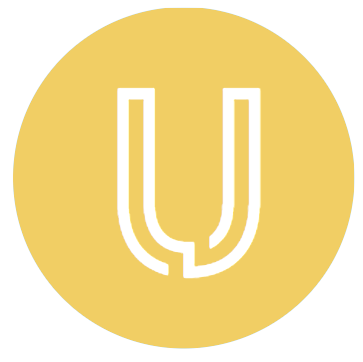
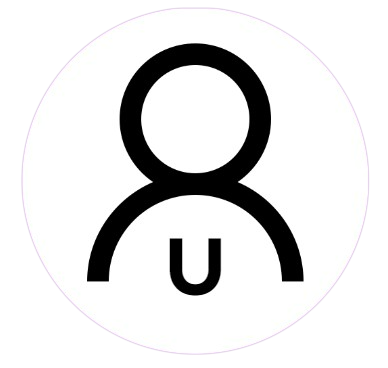
기본 이미지 수정

diff --git a/src/main/resources/templates/board/free/list.html b/src/main/resources/templates/board/free/list.html
@@ -36,7 +36,10 @@
                         <!-- 로그인이 안되 잇을 경우 display:none-->
                         <button  type="button" class="login-button">
                             <div class="profile-image-login">
-                                <img src="../../../static/image/boardList/distributor_icon.png">
+                                <div class="profile-member-status">
+                                    <!-- <span class="profile-image">유</span> -->
+                                    <span class="profile-image">자</span>
+                                </div> 
                             </div>
                             <div class="profile-username-wrap">
                                 <div class="profile-user-info-box">
@@ -44,6 +47,9 @@
                                     <div style="display: flex;">
                                         <div class="profile-userType">유통업자</div>
                                     </div>
+                                    <!-- <div style="display: flex;">
+                                        <div class="profile-userType">이용자</div>
+                                    </div> -->
                                 </div>
                             </div>
                             <span class="profile-arrow">
@@ -68,43 +74,13 @@
                         <div class="ranking-list-box">
                             <a href="#" class="distributor-box">
                                 <div class="distributor-image-box">
-                                    <img src="../../../static/image/boardList/distributor_icon.png">
-                                </div>
-                                <div class="distributor-name">유통업체 이름</div>
-                                <svg width="6" height="13" viewBox="0 0 6 13" fill="#888888" class="arrow-left">
-                                    <path d="M0.34467 10.4697C0.0517767 10.7626 0.0517767 11.2374 0.34467 11.5303C0.637563 11.8232 1.11244 11.8232 1.40533 11.5303L5.65533 7.28033C5.94822 6.98744 5.94822 6.51256 5.65533 6.21967L1.40533 1.96967C1.11244 1.67678 0.637563 1.67678 0.34467 1.96967C0.0517767 2.26256 0.0517767 2.73744 0.34467 3.03033L4.06434 6.75L0.34467 10.4697Z"></path>
-                                </svg>
-                            </a>
-                            <a href="#" class="distributor-box">
-                                <div class="distributor-image-box">
-                                    <img src="../../../static/image/boardList/distributor_icon.png">
-                                </div>
-                                <div class="distributor-name">유통업체 이름</div>
-                                <svg width="6" height="13" viewBox="0 0 6 13" fill="#888888" class="arrow-left">
-                                    <path d="M0.34467 10.4697C0.0517767 10.7626 0.0517767 11.2374 0.34467 11.5303C0.637563 11.8232 1.11244 11.8232 1.40533 11.5303L5.65533 7.28033C5.94822 6.98744 5.94822 6.51256 5.65533 6.21967L1.40533 1.96967C1.11244 1.67678 0.637563 1.67678 0.34467 1.96967C0.0517767 2.26256 0.0517767 2.73744 0.34467 3.03033L4.06434 6.75L0.34467 10.4697Z"></path>
-                                </svg>
-                            </a>
-                            <a href="#" class="distributor-box">
-                                <div class="distributor-image-box">
-                                    <img src="../../../static/image/boardList/distributor_icon.png">
-                                </div>
-                                <div class="distributor-name">유통업체 이름</div>
-                                <svg width="6" height="13" viewBox="0 0 6 13" fill="#888888" class="arrow-left">
-                                    <path d="M0.34467 10.4697C0.0517767 10.7626 0.0517767 11.2374 0.34467 11.5303C0.637563 11.8232 1.11244 11.8232 1.40533 11.5303L5.65533 7.28033C5.94822 6.98744 5.94822 6.51256 5.65533 6.21967L1.40533 1.96967C1.11244 1.67678 0.637563 1.67678 0.34467 1.96967C0.0517767 2.26256 0.0517767 2.73744 0.34467 3.03033L4.06434 6.75L0.34467 10.4697Z"></path>
-                                </svg>
-                            </a>
-                            <a href="#" class="distributor-box">
-                                <div class="distributor-image-box">
-                                    <img src="../../../static/image/boardList/distributor_icon.png">
-                                </div>
-                                <div class="distributor-name">유통업체 이름</div>
-                                <svg width="6" height="13" viewBox="0 0 6 13" fill="#888888" class="arrow-left">
-                                    <path d="M0.34467 10.4697C0.0517767 10.7626 0.0517767 11.2374 0.34467 11.5303C0.637563 11.8232 1.11244 11.8232 1.40533 11.5303L5.65533 7.28033C5.94822 6.98744 5.94822 6.51256 5.65533 6.21967L1.40533 1.96967C1.11244 1.67678 0.637563 1.67678 0.34467 1.96967C0.0517767 2.26256 0.0517767 2.73744 0.34467 3.03033L4.06434 6.75L0.34467 10.4697Z"></path>
-                                </svg>
-                            </a>
-                            <a href="#" class="distributor-box">
-                                <div class="distributor-image-box">
-                                    <img src="../../../static/image/boardList/distributor_icon.png">
+                                    <!-- <img src="../../../static/image/boardList/distributor_icon.png"> -->
+                                    <div class="profile-member-status-box">
+                                        <div class="profile-member-status-box-layout">
+                                            <span class="profile-image">유</span>
+                                            <!-- <span class="profile-image">자</span> -->
+                                        </div>
+                                    </div>
                                 </div>
                                 <div class="distributor-name">유통업체 이름</div>
                                 <svg width="6" height="13" viewBox="0 0 6 13" fill="#888888" class="arrow-left">
@@ -149,7 +125,9 @@
                                         <div class="content-member-text-left">
                                             <div class="content-member-image-box">
                                                 <div class="content-member-image-size">
-                                                    <img src="../../../static/image/boardList/distributor_icon.png">
+                                                    <div class="content-member-status">
+                                                        <span>유</span>
+                                                    </div>
                                                 </div>
                                             </div>
                                             <div class="content-member-info">
@@ -206,7 +184,9 @@
                                         <div class="content-member-text-left">
                                             <div class="content-member-image-box">
                                                 <div class="content-member-image-size">
-                                                    <img src="../../../static/image/boardList/self_employ_icon.png">
+                                                    <div class="content-member-status">
+                                                        <span>유</span>
+                                                    </div>
                                                 </div>
                                             </div>
                                             <div class="content-member-info">
@@ -215,7 +195,7 @@
                                                         <span>임종욱</span>
                                                     </div>
                                                     <div class="content-persnal-distributor">
-                                                        <div class="content-member-type">이용자</div>
+                                                        <div class="content-member-type">유통업체</div>
                                                     </div>
                                                 </div>
                                                 <span class="register-date">1시간 전</span>
@@ -224,8 +204,7 @@
                                     </div>
                                 </a>
                             </div>
-                            <!-- 이미지가 없어서 hasImage클래스 없음 -->
-                            <a href="#" class="content">
+                            <a href="" class="content">
                                 <h3 class="content-title">
                                     어느회사 가야될까요... 4년제 갓졸업 캐릭터디자인 신입입니다.
                                 </h3>
@@ -233,7 +212,11 @@
                                     (연봉 2500) 20년 된 안정된 회사고 인지도 있는 작업물 꽤 있음. 입사 후에 빡세게 안조이고 체계적이고 여유있게 배울수있을것같음 신입한테 큰일 바로 안시킴. 야근 자주 없을듯. 지하철 조금 불편? 근데 돈이 최저수준
                                     (연봉 협상 가능) 스타트업 회사. 개발보다는 외주 받는 하청업체에 가까움. 디자이너가 급하고 나랑 꼭 같이 일하고싶다고 연봉도 최대한 맞춰줄테니 거의 제발 와달라는 식으로 절절맴. 연봉도 높고 지하철도 괜찮지만 이렇게까지 절절 매는 이유가 있지 않을까 고민. 입사후 신입인데도 주요업무 시킬것같음
                                 </p>
-                                <!-- 이미지 넣는 위치-->
+                                <!-- 이미지를 넣었다면 감싸고있는 a태그에 hasImage클래스 넣어주기 표시해둠 -->
+                                <div>
+                                    <!-- 이미지를 넣었다면 여기에 넣어주기 <img> -->
+                                </div>
+                                <!-- 이미지 끝 -->
                                 <div class="like-reply-count-box">
                                     <div class="like-count-box">
                                         <svg width="18" height="18" viewBox="0 0 18 18">
@@ -259,7 +242,9 @@
                                         <div class="content-member-text-left">
                                             <div class="content-member-image-box">
                                                 <div class="content-member-image-size">
-                                                    <img src="../../../static/image/boardList/self_employ_icon.png">
+                                                    <div class="content-member-status">
+                                                        <span>유</span>
+                                                    </div>
                                                 </div>
                                             </div>
                                             <div class="content-member-info">
@@ -268,7 +253,7 @@
                                                         <span>임종욱</span>
                                                     </div>
                                                     <div class="content-persnal-distributor">
-                                                        <div class="content-member-type">이용자</div>
+                                                        <div class="content-member-type">유통업체</div>
                                                     </div>
                                                 </div>
                                                 <span class="register-date">1시간 전</span>
@@ -277,8 +262,7 @@
                                     </div>
                                 </a>
                             </div>
-                            <!-- 이미지가 없어서 hasImage클래스 없음 -->
-                            <a href="#" class="content">
+                            <a href="" class="content hasImage">
                                 <h3 class="content-title">
                                     어느회사 가야될까요... 4년제 갓졸업 캐릭터디자인 신입입니다.
                                 </h3>
@@ -286,60 +270,12 @@
                                     (연봉 2500) 20년 된 안정된 회사고 인지도 있는 작업물 꽤 있음. 입사 후에 빡세게 안조이고 체계적이고 여유있게 배울수있을것같음 신입한테 큰일 바로 안시킴. 야근 자주 없을듯. 지하철 조금 불편? 근데 돈이 최저수준
                                     (연봉 협상 가능) 스타트업 회사. 개발보다는 외주 받는 하청업체에 가까움. 디자이너가 급하고 나랑 꼭 같이 일하고싶다고 연봉도 최대한 맞춰줄테니 거의 제발 와달라는 식으로 절절맴. 연봉도 높고 지하철도 괜찮지만 이렇게까지 절절 매는 이유가 있지 않을까 고민. 입사후 신입인데도 주요업무 시킬것같음
                                 </p>
-                                <!-- 이미지 넣는 위치-->
-                                <div class="like-reply-count-box">
-                                    <div class="like-count-box">
-                                        <svg width="18" height="18" viewBox="0 0 18 18">
-                                            <path fill="currentColor" d="M13.353 2.214c.082.164.15.332.204.502.325 1.032.13 2.08-.396 3.092l-.105.191L16.253 6a.75.75 0 0 1 .743.648l.007.102v5.75a.75.75 0 0 1-.106.385l-.058.084-3.004 3.75a.75.75 0 0 1-.472.273L13.25 17H9.22a.75.75 0 0 1-.101-1.493l.102-.007h3.668l2.614-3.264V7.5h-3.91a.75.75 0 0 1-.604-1.195l.066-.077c.137-.14.36-.415.584-.778.5-.808.702-1.6.487-2.283a1.858 1.858 0 0 0-.113-.278c-.278-.551-1.075-.442-1.075-.056a3.17 3.17 0 0 1-.777 2.125c-.293.338-.59.555-.774.647l-.472.292c-.89.568-1.459 1.04-1.762 1.409l-.097.128-.058.095v.062l-.004.016-.006.093a.75.75 0 0 1-.641.641l-.102.007-.102-.007a.75.75 0 0 1-.648-.743V7.5H2.496v8h2.999l-.001-4.535.007-.102a.75.75 0 0 1 1.493.102v5.286l-.007.102a.75.75 0 0 1-.743.648H1.747l-.102-.007a.75.75 0 0 1-.648-.743v-9.5l.007-.102A.75.75 0 0 1 1.747 6h4.498l.066.005c.387-.38.92-.796 1.621-1.256l.472-.3.253-.154c.07-.035.217-.143.37-.32.226-.26.37-.576.403-.969l.008-.173c0-2.082 2.972-2.491 3.915-.619z"></path>
-                                        </svg>
-                                        <span class="like-count">10</span>
-                                    </div>
-                                    <div class="reply-count-box">
-                                        <svg width="18" height="18" viewBox="0 0 18 18">
-                                            <path fill="currentColor" transform="matrix(-1 0 0 1 18 0)" d="M9 1c4.377 0 8 3.14 8 7s-3.623 7-8 7c-.317 0-.593-.026-.954-.088l-.395-.074-.205-.043-3.295 2.089a.75.75 0 0 1-.968-.143l-.067-.09a.75.75 0 0 1 .143-.968l.09-.067 3.55-2.25a.75.75 0 0 1 .551-.1l.652.132.301.052c.228.036.408.05.597.05 3.592 0 6.5-2.52 6.5-5.5S12.592 2.5 9 2.5C5.407 2.5 2.5 5.02 2.5 8c0 1.858 1.039 3.573 2.773 4.348a.75.75 0 1 1-.612 1.37C2.37 12.693 1 10.432 1 8c0-3.86 3.622-7 8-7z"></path>
-                                        </svg>
-                                        <span class="reply-count">5</span>
-                                    </div>
+                                <!-- 이미지를 넣었다면 여기에 넣어주기 없다면 없애기 -->
+                                <!-- 이미지를 넣었다면 감싸고있는 a태그에 hasImage클래스 넣어주기 표시해둠 -->
+                                <div>
+                                    <img src="https://image.wanted.co.kr/optimize?src=https%3A%2F%2Fstatic.wanted.co.kr%2Fcommunity%2F2023%2F3%2Fe636fef8cd94bc0c9c921510c71ffae98c9c636065c75c113e4dd42a027129c9&w=384&q=90" class="board-detail-image">
                                 </div>
-                            </a>
-                        </article>
-                        <!-- 여기 까지 -->
-                        <!-- 자유게시판 정보 (반복문 또는 DOM) -->
-                        <article class="content-box">
-                            <div class="content-box-layout">
-                                <a href="#" class="content-member-info-box">
-                                    <div class="content-member-info-box-layout">
-                                        <div class="content-member-text-left">
-                                            <div class="content-member-image-box">
-                                                <div class="content-member-image-size">
-                                                    <img src="../../../static/image/boardList/self_employ_icon.png">
-                                                </div>
-                                            </div>
-                                            <div class="content-member-info">
-                                                <div class="content-persnal-distributor-box">
-                                                    <div class="content-register-name-box">
-                                                        <span>임종욱</span>
-                                                    </div>
-                                                    <div class="content-persnal-distributor">
-                                                        <div class="content-member-type">이용자</div>
-                                                    </div>
-                                                </div>
-                                                <span class="register-date">1시간 전</span>
-                                            </div>
-                                        </div>
-                                    </div>
-                                </a>
-                            </div>
-                            <!-- 이미지가 없어서 hasImage클래스 없음 -->
-                            <a href="#" class="content">
-                                <h3 class="content-title">
-                                    어느회사 가야될까요... 4년제 갓졸업 캐릭터디자인 신입입니다.
-                                </h3>
-                                <p class="content-detail">
-                                    (연봉 2500) 20년 된 안정된 회사고 인지도 있는 작업물 꽤 있음. 입사 후에 빡세게 안조이고 체계적이고 여유있게 배울수있을것같음 신입한테 큰일 바로 안시킴. 야근 자주 없을듯. 지하철 조금 불편? 근데 돈이 최저수준
-                                    (연봉 협상 가능) 스타트업 회사. 개발보다는 외주 받는 하청업체에 가까움. 디자이너가 급하고 나랑 꼭 같이 일하고싶다고 연봉도 최대한 맞춰줄테니 거의 제발 와달라는 식으로 절절맴. 연봉도 높고 지하철도 괜찮지만 이렇게까지 절절 매는 이유가 있지 않을까 고민. 입사후 신입인데도 주요업무 시킬것같음
-                                </p>
-                                <!-- 이미지 넣는 위치-->
+                                <!-- 이미지 끝 -->
                                 <div class="like-reply-count-box">
                                     <div class="like-count-box">
                                         <svg width="18" height="18" viewBox="0 0 18 18">

diff --git a/src/main/resources/static/css/boardList/free-boardList.css b/src/main/resources/static/css/boardList/free-boardList.css
@@ -120,11 +120,34 @@
     .profile-image-login {
         width: 38px;
         height: 38px;
+        border-radius: 50%;
+        background-color: #FFCD4A;
     }
 
     .profile-image-login img {
         width: 100%;
         height: 100%;
+    }
+
+    .profile-member-status {
+        padding: 4px 6px 5px;
+    }
+
+    .profile-image {
+        font-size: 24px;
+        color: #fff;
+        font-weight: 500;
+    }
+
+    .profile-member-status-box {
+        width: 100%;
+        height: 100%;
+        border-radius: 50%;
+        background-color: #FFCD4A;
+    }
+
+    .profile-member-status-box-layout {
+        padding: 4px 6px 5px 9px;
     }
 
     .profile-username-wrap {
@@ -267,7 +290,6 @@
     .distributor-image-box img {
         width: 100%;
         height: 100%;
-        object-fit: cover;
         clip-path: circle(50% at 50% 50%);
     }
     
@@ -439,14 +461,26 @@
     .content-member-image-size {
         width: 28px;
         height: 28px;
+        border-radius: 50%;
+        background-color: #FFCD4A;
     }
 
     .content-member-image-size img {
         width: 100%;
         height: 100%;
-        object-fit: cover;
         clip-path: circle(50% at 50% 50%);
     }
+
+    .content-member-status {
+        padding: 4px 6px 5px;
+    }
+
+    .content-member-status span {
+        font-size: 17px;
+        font-weight: 500;
+        color: #fff;    
+    }
+
 
     .content-member-info {
         display: flex;
